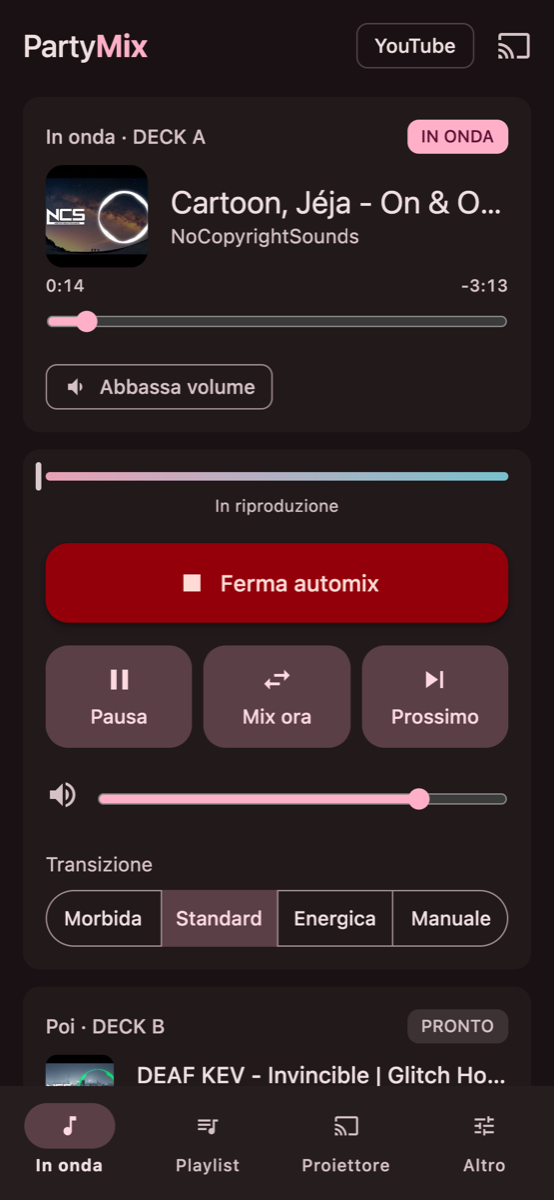
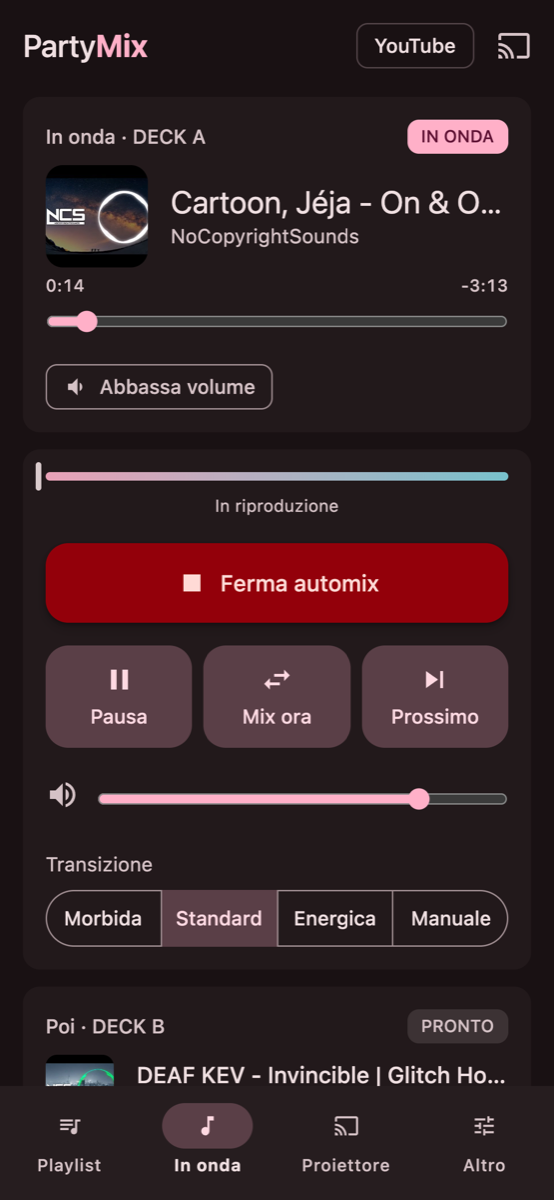
1.6.2: musica a schermo spento su Android, percorso Playlist → In onda
- MainActivity: in onPause/onStop la WebView viene rimessa visibile
  (onResume, resumeTimers, dispatchWindowVisibilityChanged) così Chromium
  non sospende i player YouTube; verificato sul Realme a schermo spento
- YouTubeDeck: una pausa non richiesta mentre si deve suonare riparte dopo 1 s
- Telefono: Playlist prima voce, scheda «Prima scegli la musica», pallini
  sulla sezione da aprire, pulsante «Vai a In onda e avvia la musica»
- Guida e schermate aggiornate

Changed region(s): [[0.2762, 0.8942, 0.4603, 0.9867], [0.0307, 0.8942, 0.2148, 0.9867]]

diff --git a/src/ui/console.ts b/src/ui/console.ts
@@ -90,7 +90,8 @@ export const EMPTY_SOURCE = '↓ Carica la tua playlist (Spotify / YouTube)';
 const fmtSpeed = (v: number) => '×' + v.toFixed(2).replace('.', ',');
 const ROLE_LABEL: Record<DeckVM['role'], string> = { live: 'IN ONDA', out: 'IN USCITA', ready: 'PRONTO', loading: 'PREPARAZIONE…', idle: 'FERMO' };
 
-export function buildConsole(root: HTMLElement, a: Actions) {
+/** `hasMusic`: a playlist is saved for the slot in use, so the phone opens on «In onda» instead of «Playlist». */
+export function buildConsole(root: HTMLElement, a: Actions, opts: { hasMusic?: boolean } = {}) {
   /** Phone layout (Material Design 3) on Android; the classic console on a computer. */
   const md = materialUI();
   const label = (el: HTMLElement, t: string) => (md ? setLabel(el, t) : el.textContent !== t && (el.textContent = t));
@@ -267,13 +268,22 @@ export function buildConsole(root: HTMLElement, a: Actions) {
     onChange: () => a.renamePlaylist(nameInput.value) });
   nameInput.addEventListener('keydown', (e) => { if (e.key === 'Enter') nameInput.blur(); });
   const savedInfo = h('span', { class: 'artist saved' });
+  // Phone, step 2: once a playlist is ready, the way to the music is the most visible button on the page.
+  const goNow = h('button', { class: 'm-filled m-gonow hidden', onClick: () => { shell?.go('now'); if (lastVm?.ready && lastVm.state === 'idle') a.start(); } }, 'Vai a In onda e avvia la musica');
+  // Phone, step 1: «In onda» with nothing to play says where to start.
+  const emptyNow = h('section', { class: 'panel m-empty hidden' },
+    h('div', { class: 'm-steps' }, h('span', { class: 'm-step on' }, '1'), h('span', { class: 'm-step-line' }), h('span', { class: 'm-step' }, '2')),
+    h('h3', {}, 'Prima scegli la musica'),
+    h('p', { class: 'artist' }, 'Vai su «Playlist», scegli una delle tue playlist o incolla un link di YouTube o Spotify. Poi torna qui e premi «Avvia automix».'),
+    h('button', { class: 'm-filled', onClick: () => shell?.go('list') }, 'Scegli la playlist'));
   const loadRow = md
     ? h('div', { class: 'load m-card' },
       h('label', { class: 'm-field' }, h('span', { class: 'm-field-label' }, 'Playlist in uso'), slotSel),
       h('label', { class: 'm-field' }, h('span', { class: 'm-field-label' }, 'Nome'), nameInput),
       savedInfo,
       h('label', { class: 'm-field' }, h('span', { class: 'm-field-label' }, 'Link YouTube o Spotify'), link),
-      h('div', { class: 'm-btnrow' }, loadBtn, appsBtn))
+      h('div', { class: 'm-btnrow' }, loadBtn, appsBtn),
+      goNow)
     : h('div', { class: 'load' }, slotSel, nameInput, savedInfo, link, loadBtn, appsBtn);
   /** A line about the projector that the app keeps up to date (Android: the cast screen). */
   function setProjectorInfo(text: string) { if (projMsg.textContent !== text) projMsg.textContent = text; }
@@ -347,7 +357,7 @@ export function buildConsole(root: HTMLElement, a: Actions) {
     helpItem('info', 'Informazioni', 'Versione, autore e donazione facoltativa', openInfo));
   /** Phone: the parts of the console grouped in four destinations, each one a screen. */
   const mdTourSteps = (): TourStep[] => [
-    { target: () => root.querySelector('.m-nav'), title: 'Quattro sezioni', text: 'In basso passi da una sezione all’altra: «In onda» per suonare, «Playlist» per scegliere i brani, «Proiettore» per la TV e il testo, «Altro» per le impostazioni e l’aiuto. Il tasto Indietro torna a «In onda».' },
+    { target: () => root.querySelector('.m-nav'), title: 'Prima la playlist, poi In onda', text: 'In basso le sezioni sono in ordine: 1) «Playlist» per scegliere la musica, 2) «In onda» per farla partire, poi «Proiettore» per la TV e il testo e «Altro» per le impostazioni e l’aiuto. Un pallino colorato ti dice dove andare. Il tasto Indietro torna a «In onda».' },
     { target: () => loadRow, title: 'Le tue playlist', text: 'Puoi tenere quattro playlist: scegline una dal menu, dalle un nome e incolla il link di YouTube o Spotify. Ancora più comodo: «Scegli dalle app», apri la playlist in YouTube o Spotify e tocca Condividi › PartyMix. La lista resta salvata sul telefono.' },
     { target: () => queuePanel, title: 'La coda', text: 'Tocca un brano per suonarlo subito, farlo partire dopo quello in onda, spostarlo, bloccarlo o toglierlo dalla playlist.' },
     { target: () => (dA.card.classList.contains('is-live') ? dA.card : dB.card), title: 'In onda', text: 'Il brano che si sente, con il video e il tempo che manca. Trascina la barra per spostarti nel brano.' },
@@ -370,6 +380,7 @@ export function buildConsole(root: HTMLElement, a: Actions) {
     withIcon(shuffleBtn, 'shuffle'); withIcon(shuffleNow, 'shuffle'); withIcon(repeatBtn, 'repeat');
     withIcon(refreshBtn, 'refresh'); withIcon(addBtn, 'add');
     withIcon(projOpen, 'cast'); withIcon(projClose, 'stop');
+    withIcon(goNow, 'play'); withIcon(emptyNow.querySelector('button')!, 'queue');
     withIcon(dA.duck, 'volumeDown'); withIcon(dB.duck, 'volumeDown');
     master.parentElement?.prepend(withIcon(h('span', { class: 'm-vol-ic' }), 'volume', true));
     nextBtn.parentElement?.append(nextBtn); // Pausa · Mix ora · Prossimo, like a player
@@ -379,9 +390,12 @@ export function buildConsole(root: HTMLElement, a: Actions) {
     shell = buildShell(root, {
       title: h('div', { class: 'logo' }, 'Party', h('b', {}, 'Mix')),
       actions: [pill, castTop],
+      home: 'now',
+      start: opts.hasMusic ? 'now' : 'list',
       screens: [
-        { id: 'now', label: 'In onda', icon: 'nowPlaying', body: [h('div', { class: 'm-now' }, dA.card, mixer, dB.card)] },
+        // the order of the steps: first the playlist, then the music
         { id: 'list', label: 'Playlist', icon: 'queue', body: [loadRow, warnPanel, queuePanel] },
+        { id: 'now', label: 'In onda', icon: 'nowPlaying', body: [emptyNow, h('div', { class: 'm-now' }, dA.card, mixer, dB.card)] },
         { id: 'proj', label: 'Proiettore', icon: 'cast', body: [projPanel, syncBar, lyricsPanel] },
         { id: 'more', label: 'Altro', icon: 'tune', body: [karaokePanel, adPanel, helpPanel, histPanel, probPanel, h('section', { class: 'panel' }, unav)] },
       ],
@@ -536,6 +550,13 @@ export function buildConsole(root: HTMLElement, a: Actions) {
     label(repeatBtn, { off: 'Ripeti: no', all: 'Ripeti: tutta la playlist', one: 'Ripeti: questo brano' }[vm.repeat]);
     repeatBtn.setAttribute('aria-pressed', String(vm.repeat !== 'off'));
 
+    if (md) {
+      const has = vm.queue.length > 0;
+      emptyNow.classList.toggle('hidden', has);
+      goNow.classList.toggle('hidden', !has || !idle);
+      shell?.hint('list', !has);
+      shell?.hint('now', has && idle && shell.current() !== 'now');
+    }
     once('queue', JSON.stringify(vm.queue), () => {
       queueList.replaceChildren(...vm.queue.map((r, i) => md ? mdRow(r, i, vm.queue) : h('div', {
         class: 'item' + (r.current ? ' cur' : '') + (r.bad ? ' bad' : ''),

diff --git a/tests/material.test.ts b/tests/material.test.ts
@@ -15,7 +15,7 @@ function setup() {
   history.replaceState(null, '', '/?android');
   document.body.className = '';
   document.body.innerHTML = '<div id="root"></div>';
-  const fns = { removeTrack: vi.fn(), move: vi.fn(), selectPlaylist: vi.fn(), playNow: vi.fn() };
+  const fns = { removeTrack: vi.fn(), move: vi.fn(), selectPlaylist: vi.fn(), playNow: vi.fn(), start: vi.fn() };
   const actions = new Proxy(fns, { get: (t, k) => (k in t ? (t as never)[k] : vi.fn()) }) as unknown as Actions;
   const ui = buildConsole(document.getElementById('root')!, actions);
   ui.update(vm());
@@ -26,14 +26,32 @@ const sheetItem = (label: string) => [...document.querySelectorAll<HTMLButtonEle
 describe('phone layout (Material Design)', () => {
   afterEach(() => history.replaceState(null, '', '/'));
 
-  it('has four destinations, «In onda» first, and switches between them', () => {
+  it('has four destinations in the order of the steps, Playlist first, and switches between them', () => {
     setup();
     const nav = [...document.querySelectorAll<HTMLButtonElement>('.m-nav-item')];
-    expect(nav.map((b) => b.textContent)).toEqual(['In onda', 'Playlist', 'Proiettore', 'Altro']);
-    expect(document.querySelector('.m-screen.on')?.getAttribute('data-screen')).toBe('now');
+    expect(nav.map((b) => b.textContent)).toEqual(['Playlist', 'In onda', 'Proiettore', 'Altro']);
+    expect(document.querySelector('.m-screen.on')?.getAttribute('data-screen')).toBe('list'); // nothing saved yet: start from the playlist
     nav[1].click();
-    expect(document.querySelector('.m-screen.on')?.getAttribute('data-screen')).toBe('list');
-    expect(document.querySelector('[data-screen=now]')?.hasAttribute('inert')).toBe(true);
+    expect(document.querySelector('.m-screen.on')?.getAttribute('data-screen')).toBe('now');
+    expect(document.querySelector('[data-screen=list]')?.hasAttribute('inert')).toBe(true);
+  });
+
+  it('shows the way (and the big button also starts the music): no music → «Prima scegli la musica» and a dot on Playlist; music ready → a dot on In onda and the button to go there', () => {
+    const { ui, fns } = setup();
+    const nav = () => [...document.querySelectorAll<HTMLButtonElement>('.m-nav-item')];
+    const v = vm();
+    ui.update({ ...v, queue: [], state: 'idle' });
+    expect(document.querySelector('.m-empty')?.classList.contains('hidden')).toBe(false);
+    expect(nav()[0].classList.contains('hint')).toBe(true);
+    ui.update({ ...v, state: 'idle', queue: v.queue.map((r) => ({ ...r, current: false })) });
+    expect(document.querySelector('.m-empty')?.classList.contains('hidden')).toBe(true);
+    expect(nav()[0].classList.contains('hint')).toBe(false);
+    expect(nav()[1].classList.contains('hint')).toBe(true);
+    const go = document.querySelector<HTMLButtonElement>('.m-gonow')!;
+    expect(go.classList.contains('hidden')).toBe(false);
+    go.click();
+    expect(document.querySelector('.m-screen.on')?.getAttribute('data-screen')).toBe('now');
+    expect(fns.start).toHaveBeenCalled();
   });
 
   it('lists the four playlists in a menu by name, with how many songs each keeps', () => {

diff --git a/src/ui/material.ts b/src/ui/material.ts
@@ -86,9 +86,9 @@ export type SheetItem = { label: string; icon: IconName; danger?: boolean; disab
  * Builds the app frame and returns its controls. Back (Android's back gesture) closes an open sheet, then returns
  * to the first destination, then leaves the app: every step is a history entry, so the WebView's back does the work.
  */
-export function buildShell(root: HTMLElement, o: { title: Node; actions: Node[]; screens: Screen[] }) {
+export function buildShell(root: HTMLElement, o: { title: Node; actions: Node[]; screens: Screen[]; home?: string; start?: string }) {
   document.body.classList.add('md');
-  const home = o.screens[0].id;
+  const home = o.home ?? o.screens[0].id;
   let current = home;
   const scroll = new Map<string, number>();
   const sections = new Map<string, HTMLElement>();
@@ -111,6 +111,7 @@ export function buildShell(root: HTMLElement, o: { title: Node; actions: Node[];
   root.append(appbar, main, nav, snack);
 
   /** Hidden destinations stay laid out off screen (not display:none), so the YouTube players inside keep playing. */
+  const listeners = new Set<(id: string) => void>();
   function show(id: string) {
     if (!sections.has(id)) id = home;
     scroll.set(current, scrollY);
@@ -123,10 +124,11 @@ export function buildShell(root: HTMLElement, o: { title: Node; actions: Node[];
       if (on) navBtns.get(k)?.setAttribute('aria-current', 'page'); else navBtns.get(k)?.removeAttribute('aria-current');
     }
     scrollTo(0, scroll.get(id) ?? 0);
+    listeners.forEach((f) => f(id));
   }
   function go(id: string) {
     if (id === current) { scrollTo({ top: 0, behavior: 'smooth' }); return; }
-    if (id === home) { if (history.state?.screen && history.state.screen !== home) history.back(); else show(home); return; }
+    if (id === home) { const back = history.state?.screen && history.state.screen !== home; show(home); if (back) history.back(); return; }
     const st = { screen: id };
     if (current === home) history.pushState(st, ''); else history.replaceState(st, '');
     show(id);
@@ -137,6 +139,7 @@ export function buildShell(root: HTMLElement, o: { title: Node; actions: Node[];
     show((e.state as { screen?: string } | null)?.screen ?? home);
   });
   show(home);
+  if (o.start && o.start !== home) go(o.start);
 
   let snackTimer = 0;
   function toast(text: string, error = false) {
@@ -183,7 +186,9 @@ export function buildShell(root: HTMLElement, o: { title: Node; actions: Node[];
     if (id && id !== current) go(id);
   }
 
-  return { go, toast, sheet, reveal, current: () => current };
+  /** A dot on a destination of the bottom bar: «there is something for you here». */
+  function hint(id: string, on: boolean): void { navBtns.get(id)?.classList.toggle('hint', on); }
+  return { go, toast, sheet, reveal, hint, onScreen: (f: (id: string) => void) => listeners.add(f), current: () => current };
 }
 
 /** Android draws the app under the status and navigation bars: the app asks how tall they are and leaves room. */

diff --git a/src/ui/material.css b/src/ui/material.css
@@ -242,3 +242,23 @@ body.md.light {
 .md .role.live { background: var(--md-primary); color: var(--md-on-primary); }
 .md .cover.none { display: none; }
 .md .m-sheet-panel:focus { outline: none; }
+
+/* Playlist first, then «In onda»: the dot on the destination to go to, the empty state, the way to the music */
+.md .m-ind { position: relative; }
+.md .m-nav-item.hint .m-ind::after { content: ''; position: absolute; top: 2px; right: 14px; width: 10px; height: 10px; border-radius: 50%;
+  background: var(--md-primary); box-shadow: 0 0 0 2px var(--md-surface-c); animation: m-pulse 1.6s ease-in-out infinite; }
+@keyframes m-pulse { 50% { transform: scale(1.35); opacity: .7; } }
+.md .m-empty { background: var(--md-primary-container); color: var(--md-on-primary-container); display: grid; gap: 12px; }
+.md .m-empty h3 { color: var(--md-on-primary-container); font-size: 22px; line-height: 28px; font-weight: 400; margin: 0; }
+.md .m-empty .artist { color: var(--md-on-primary-container); font-size: 16px; line-height: 24px; margin: 0; }
+.md .m-empty button { justify-self: start; min-height: 48px; }
+.md .m-steps { display: flex; align-items: center; gap: 8px; }
+.md .m-step { width: 28px; height: 28px; border-radius: 50%; display: grid; place-items: center; font: 500 14px/1 Roboto, system-ui, sans-serif;
+  box-shadow: inset 0 0 0 2px currentColor; opacity: .6; }
+.md .m-step.on { background: var(--md-primary); color: var(--md-on-primary); box-shadow: none; opacity: 1; }
+.md .m-step-line { width: 32px; height: 2px; background: currentColor; opacity: .4; }
+.md .m-gonow { min-height: 56px; border-radius: 16px; font-size: 16px; box-shadow: 0 1px 3px #0004, 0 4px 8px #0002; }
+.md .m-gonow .m-icon { width: 24px; height: 24px; }
+.md .m-empty .artist { white-space: normal; overflow: visible; }
+/* nothing to play yet: the empty deck cards would only be noise next to «Prima scegli la musica» */
+.md .m-empty:not(.hidden) + .m-now .deck { display: none; }

diff --git a/src-tauri/gen/android/app/src/main/java/it/partymix/ai/MainActivity.kt b/src-tauri/gen/android/app/src/main/java/it/partymix/ai/MainActivity.kt
@@ -7,6 +7,7 @@ import android.content.res.Configuration
 import android.net.Uri
 import android.os.Build
 import android.os.Bundle
+import android.view.View
 import android.webkit.JavascriptInterface
 import android.graphics.Color
 import android.webkit.WebView
@@ -104,7 +105,23 @@ class MainActivity : TauriActivity() {
   // Wry pauses the web view when the app leaves the screen, and that pauses the players: undo it.
   override fun onPause() {
     super.onPause()
-    webView?.onResume()
+    keepPlaying()
+  }
+
+  // Screen off or another app in front: the web view is told its window is hidden, and Chromium then suspends
+  // the video players (the YouTube decks). Tell it again that it is visible, now and once the window has changed.
+  override fun onStop() {
+    super.onStop()
+    keepPlaying()
+    webView?.postDelayed({ keepPlaying() }, 300)
+    webView?.postDelayed({ keepPlaying() }, 1500)
+  }
+
+  private fun keepPlaying() {
+    val w = webView ?: return
+    w.onResume()
+    w.resumeTimers()
+    w.dispatchWindowVisibilityChanged(View.VISIBLE)
   }
 
   /** The phone switched between light and dark (uiMode is handled here, the activity is not recreated). */

diff --git a/src/youtubeDeck.ts b/src/youtubeDeck.ts
@@ -108,6 +108,22 @@ export class YouTubeDeck implements Deck {
     if (state === 5) this.settle();
     else if (state === 1) this.retries = 0;
     else if (state === 0) this.endedCb();
+    else if (state === 2 && this.wantPlay) this.resumeSoon();
+  }
+
+  /**
+   * Paused, but nobody asked: the phone suspended the player (screen off, app in the background). Play again,
+   * at most once a second so a player that keeps refusing is not hammered.
+   */
+  private resumeTimer: number | undefined;
+  private resumeSoon(): void {
+    if (this.resumeTimer !== undefined) return;
+    this.resumeTimer = this.timers.setTimer(() => {
+      this.resumeTimer = undefined;
+      if (!this.wantPlay) return;
+      log('info', 'deck.resumed_after_pause', { videoId: this.videoId });
+      this.player.playVideo();
+    }, 1000);
   }
 
   /** Called by the YT.Player onError event. */

diff --git a/tests/youtubeDeck.test.ts b/tests/youtubeDeck.test.ts
@@ -133,3 +133,26 @@ describe('YouTubeDeck load errors and retry cleanup', () => {
     expect(cleared).toEqual([77]);
   });
 });
+
+describe('pause that nobody asked for (screen off)', () => {
+  it('plays again after a second while the deck should be playing', () => {
+    const { p, d, timers } = mk();
+    d.play();
+    p.calls = [];
+    d.handleState(2);
+    d.handleState(2); // a second pause before the timer fires does not stack
+    expect(timers).toHaveLength(1);
+    expect(timers[0].ms).toBe(1000);
+    timers[0].fn();
+    expect(p.calls).toEqual(['play']);
+  });
+  it('a pause from the app itself stays paused', () => {
+    const { p, d, timers } = mk();
+    d.play();
+    d.pause();
+    p.calls = [];
+    d.handleState(2);
+    expect(timers).toHaveLength(0);
+    expect(p.calls).toEqual([]);
+  });
+});

diff --git a/src/main.ts b/src/main.ts
@@ -316,7 +316,7 @@ const ui = buildConsole(document.getElementById('app')!, {
   markWelcomed() { settings.welcomed = true; save(); },
   retryKaraoke: () => startKaraoke(true),
   setKaraokeAuto(on) { settings.karaokeAuto = on; save(); if (on) startKaraoke(); else karaoke.stop(); },
-});
+}, { hasMusic: !!loadSaved(store, settings.playlistSlot) });
 ui.setSensitivity(settings.micSensitivity);
 showSlots();
 ui.setProjectorMode(settings.projectorMode);

diff --git a/docs/GUIDA.md b/docs/GUIDA.md
@@ -60,18 +60,25 @@ L'app segue lo stile Material Design e ha quattro sezioni nella barra in basso:
 
 <table>
 <tr>
-<td align="center"><img src="img/android-now.png" alt="Sezione In onda" width="190"><br><b>In onda</b></td>
-<td align="center"><img src="img/android-playlist.png" alt="Sezione Playlist, tema chiaro" width="190"><br><b>Playlist</b> (tema chiaro)</td>
+<td align="center"><img src="img/android-playlist.png" alt="Sezione Playlist, tema chiaro" width="190"><br><b>① Playlist</b> (tema chiaro)</td>
+<td align="center"><img src="img/android-now.png" alt="Sezione In onda" width="190"><br><b>② In onda</b></td>
 <td align="center"><img src="img/android-projector.png" alt="Sezione Proiettore" width="190"><br><b>Proiettore</b></td>
 </tr>
 </table>
 
 | Sezione | Cosa contiene |
 |---|---|
-| **In onda** | Il brano che si sente (copertina, titolo, tempo, barra per spostarsi), **Avvia/Ferma automix**, Pausa, Mix ora, Prossimo, volume e stile delle transizioni. Più sotto la scheda «Poi» con il brano già pronto |
-| **Playlist** | Il menu delle quattro playlist, il nome, il link, «Carica playlist», «Scegli dalle app» e la coda dei brani |
+| **① Playlist** | Il menu delle quattro playlist, il nome, il link, «Carica playlist», «Scegli dalle app» e la coda dei brani |
+| **② In onda** | Il brano che si sente (copertina, titolo, tempo, barra per spostarsi), **Avvia/Ferma automix**, Pausa, Mix ora, Prossimo, volume e stile delle transizioni. Più sotto la scheda «Poi» con il brano già pronto |
 | **Proiettore** | Karaoke o Video YouTube, «Trasmetti alla TV», microfono e la scheda «Testo da cantare» per mettere il testo a tempo |
 | **Altro** | Karaoke automatico, brani brevi (spot), aiuto, commenti, informazioni, brani già suonati e problemi |
+
+**Prima la playlist, poi In onda.** Le sezioni sono in ordine: si sceglie la musica e poi la si fa partire.
+- Finché non c'è una playlist, l'app si apre su **Playlist** e la voce Playlist ha un **pallino colorato**. Se apri In onda, trovi la scheda «Prima scegli la musica» con il pulsante per tornare a Playlist.
+- Quando la playlist è pronta, in Playlist compare il grande pulsante **▶ Vai a In onda e avvia la musica**: ti porta in In onda e fa partire l'automix. Il pallino passa sulla voce In onda.
+- Se all'apertura c'è già una playlist salvata, l'app si apre direttamente su In onda.
+
+<p align="center"><img src="img/android-start.png" alt="In onda senza playlist: «Prima scegli la musica» e il pallino su Playlist" width="240"></p>
 
 - L'icona **Trasmetti** in alto a destra apre subito il proiettore sulla TV.
 - Il tasto **Indietro** chiude un pannello aperto, poi torna a «In onda». Da «In onda» manda l'app in secondo piano senza chiuderla, quindi la musica continua.
@@ -218,7 +225,7 @@ Le pubblicità che YouTube inserisce nel suo player non si possono saltare né n
 - **Un brano viene saltato:** il proprietario non permette di suonarlo fuori da YouTube. Lo trovi in «Stato e problemi»; sostituiscilo dall'avviso dei brani non riproducibili.
 - **Il testo è sfasato:** usa ① e ② (vedi il [capitolo 7](#7-il-testo-da-cantare)), oppure spegni «Parole che si illuminano».
 - **Android: sulla TV vedo il telefono invece del proiettore:** il dispositivo copia lo schermo ma non riceve uno «schermo wireless». Prova un'app ricevitore Miracast sulla TV, oppure un cavo HDMI.
-- **Android: la musica si ferma con lo schermo spento.** PartyMix tiene viva la musica con la notifica «La festa continua anche a schermo spento». Se il telefono la ferma lo stesso, togli PartyMix dall'ottimizzazione della batteria nelle impostazioni di Android.
+- **Android: la musica si ferma con lo schermo spento.** Dalla versione 1.6.2 la musica continua a schermo spento (provato su un Realme con Android 16), e la notifica «La festa continua anche a schermo spento» tiene viva l'app. Se il tuo telefono la ferma lo stesso, togli PartyMix dall'ottimizzazione della batteria nelle impostazioni di Android.
 - Per tutto il resto scrivimi da **💬 Commenti**.
 
 ## 💜 Sostieni PartyMix
